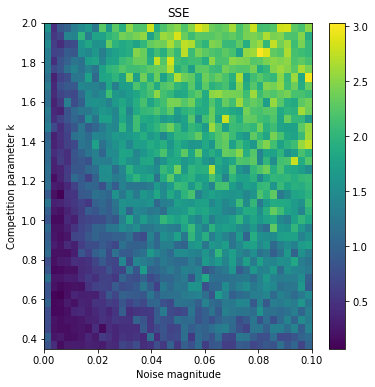
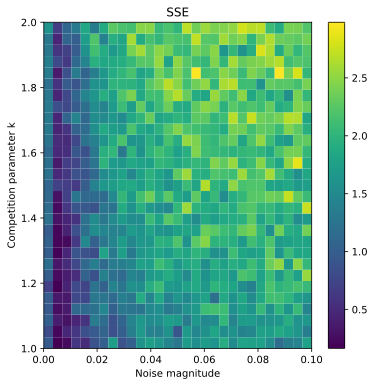
Updating things prepping for publication. Getting closer, but scripts will definitely need to be cleaned up a lot before this goes public.

diff --git a/PsPartPaperModel/SensitivityAnalyses.py b/PsPartPaperModel/SensitivityAnalyses.py
@@ -10,6 +10,7 @@ Created on Tue Jul 25 10:54:12 2017
 import numpy as np
 import matplotlib.pyplot as plt
 
+
 def dyn(k0, adj0, noise0):
     nlinks = 6
 
@@ -25,22 +26,22 @@ def dyn(k0, adj0, noise0):
     all_sents = [box_of_N2_pp, group_of_N2_pp, lot_of_N2_pp, many_N2_pp, box_of_N2_no, group_of_N2_no, lot_of_N2_no, many_N2_no]
     all_sents = np.exp(-np.array(all_sents))
 
-    ## Monte Carlo
+    # Monte Carlo
     tau = 0.01
     ntsteps = 10000
     noisemag = noise0
     nreps = 50
     k = k0
     W = np.array([[1, k, 0, k, 0, k],
-              [k, 1, k, 0, k, 0],
-              [0, k, 1, k, 0, k],
-              [k, 0, k, 1, k, 0],
-              [0, k, 0, k, 1, k],
-              [k, 0, k, 0, k, 1]])
-    
+                  [k, 1, k, 0, k, 0],
+                  [0, k, 1, k, 0, k],
+                  [k, 0, k, 1, k, 0],
+                  [0, k, 0, k, 1, k],
+                  [k, 0, k, 0, k, 1]])
+
     data = np.zeros((len(all_sents), 3))
     for sent in range(all_sents.shape[0]):
-        ipt = all_sents[sent,]
+        ipt = all_sents[sent, ]
 #        print('\tStarting sentence {}'.format(sent))
     
         for rep in range(nreps):
@@ -52,26 +53,26 @@ def dyn(k0, adj0, noise0):
                 x0[0] += 0.1
 #               x0[0] += 0.01
             xhist = np.zeros((ntsteps, nlinks))
-            xhist[0,] = x0
+            xhist[0, ] = x0
             noise = np.sqrt(tau*noisemag) * np.random.normal(0, 1, xhist.shape)
-            
+
             t = 0
             while t < ntsteps-1:
                 t += 1
-                xhist[t,:] = np.clip(xhist[t-1,] + tau * (ipt * xhist[t-1,] 
-                * (1 - W @ xhist[t-1,])) + noise[t-1,:], -0.01, 1.01)
+                xhist[t, :] = np.clip(xhist[t-1, ] + tau * (ipt * xhist[t-1, ]
+                * (1 - W @ xhist[t-1, ])) + noise[t-1, :], -0.01, 1.01)
 
                 if sent < 3:
                     if t == 400:
-                        xhist[t,1] += adj0
-                        xhist[t,2] += adj0
+                        xhist[t, 1] += adj0
+                        xhist[t, 2] += adj0
                     if t == 800:
-                        xhist[t,3:] += adj0
+                        xhist[t, 3:] += adj0
                     if t >= 1200:
-                        if xhist[t,0] > 0.5 and xhist[t,-1] < 0.5:
+                        if xhist[t, 0] > 0.5 and xhist[t, -1] < 0.5:
                             data[sent, 0] += 1
                             break
-                        elif xhist[t,0] < 0.5 and xhist[t,-1] > 0.5:
+                        elif xhist[t, 0] < 0.5 and xhist[t, -1] > 0.5:
                             data[sent, 1] += 1
                             break
                         elif (t+1) == ntsteps:
@@ -81,24 +82,24 @@ def dyn(k0, adj0, noise0):
                     xhist[t, 0:3] = 0
                     xhist[t, 4] = 0
                     if t == 400:
-                        xhist[t,5] += adj0
+                        xhist[t, 5] += adj0
                     if t >= 800:
-                        if xhist[t,0] > 0.5 and xhist[t,-1] < 0.5:
+                        if xhist[t, 0] > 0.5 and xhist[t, -1] < 0.5:
                             data[sent, 0] += 1
                             break
-                        elif xhist[t,0] < 0.5 and xhist[t,-1] > 0.5:
+                        elif xhist[t, 0] < 0.5 and xhist[t, -1] > 0.5:
                             data[sent, 1] += 1
                             break
                         elif (t+1) == ntsteps:
                             data[sent, 2] += 1
                             break
                 elif sent > 3 and sent < 7:
-                # Assuming the elided material all comes in at once
+                    # Assuming the elided material all comes in at once
                     if t > 400:
-                        if xhist[t,0] > 0.5 and xhist[t,-1] < 0.5:
+                        if xhist[t, 0] > 0.5 and xhist[t, -1] < 0.5:
                             data[sent, 0] += 1
                             break
-                        elif xhist[t,0] < 0.5 and xhist[t,-1] > 0.5:
+                        elif xhist[t, 0] < 0.5 and xhist[t, -1] > 0.5:
                             data[sent, 1] += 1
                             break
                         elif (t+1) == ntsteps:
@@ -106,12 +107,12 @@ def dyn(k0, adj0, noise0):
                             break
                 else:
                     xhist[t, 0:3] = 0
-                    xhist[t, 4] = 0            
+                    xhist[t, 4] = 0
                     if t > 400:
-                        if xhist[t,0] > 0.5 and xhist[t,-1] < 0.5:
+                        if xhist[t, 0] > 0.5 and xhist[t, -1] < 0.5:
                             data[sent, 0] += 1
                             break
-                        elif xhist[t,0] < 0.5 and xhist[t,-1] > 0.5:
+                        elif xhist[t, 0] < 0.5 and xhist[t, -1] > 0.5:
                             data[sent, 1] += 1
                             break
                         elif (t+1) == ntsteps:
@@ -127,7 +128,7 @@ human_data = np.array([[137, 97, 0],
                        [189, 46, 0],
                        [99, 134, 0],
                        [27, 206, 0]])
-human_data = human_data / human_data.sum(axis=1)[:,None]
+human_data = human_data / human_data.sum(axis=1)[:, None]
 #for i in range(2):
 #    for j in range(4):
 #        human_data[i,j,:] = human_data[i,j,:] / human_data[i,j,:].sum()
@@ -135,8 +136,6 @@ human_data = human_data / human_data.sum(axis=1)[:,None]
 def sse(model_data):
     return np.sum((model_data - human_data)**2)
 
-#def attr(model_data):
-#    return model_data[1, :, 1] - model_data[0, :, 1]
 
 def agr_attr(model_data):
     """Returns the average agr. attr. effect for Cont. through Meas."""
@@ -144,8 +143,9 @@ def agr_attr(model_data):
 
 # Doing sensitivity
 #noise_vec = np.array([0.1, 0.05, 0.01, 0.005, 0.001, 0.0005, 0.0001])
-noise_vec = np.linspace(0.0001, 0.1, 40)
-k_vec = np.linspace(0.35, 2., 40)
+noise_vec = np.linspace(0.0001, 0.1, 30)
+#k_vec = np.linspace(0.35, 2., 40)
+k_vec = np.linspace(1.0, 2, 30)
 #adj_vec = np.linspace(0.0, 1.0, 100)
 adj = 0.1 # 
 #errors = np.zeros(len(adj_vec))
@@ -155,10 +155,11 @@ attr_eff = np.zeros((len(noise_vec), len(k_vec)))
 #for i in range(len(adj_vec)):
 for i in range(len(noise_vec)):
     for j in range(len(k_vec)):
-        if j % 10 == 0: print('Noise: {}\tk: {}'.format(noise_vec[i], k_vec[j]))
+        if j % 10 == 0:
+            print('Noise: {}\tk: {}'.format(noise_vec[i], k_vec[j]))
         distr = dyn(k0=k_vec[j], adj0=adj, noise0=noise_vec[i])
-        errors[i,j] = sse(distr)
-        attr_eff[i,j] = agr_attr(distr)
+        errors[i, j] = sse(distr)
+        attr_eff[i, j] = agr_attr(distr)
 
 plt.figure(figsize=(6, 6))
 plt.pcolor(noise_vec, k_vec, errors.T)

diff --git a/PsPartPaperModel/MonteCarlo.py b/PsPartPaperModel/MonteCarlo.py
@@ -73,8 +73,8 @@ all_sents = np.exp(-np.array(all_sents))
 # Interaction matrix: specifies which links enter into WTA competitions. The
 # parameter k determines the relative strength of inhibition from other links
 # to a link's self-inhibition
-k = 0.5 # gets even better fit. Need to look at individual runs, though...
-#k = 1.01
+#k = 0.5 # gets even better fit. Need to look at individual runs, though...
+k = 1.3 # for publication
 # and also do a stability analysis to see if things still look the way they should
 #k = 1.1 # works
 W = np.array([[1, k, 0, k, 0, k],
@@ -87,7 +87,8 @@ W = np.array([[1, k, 0, k, 0, k],
 ## Monte Carlo
 tau = 0.01
 ntsteps = 10000
-noisemag = 0.001 # works!
+noisemag = 0.002 # works!; 
+#noisemag = 0.0035
 #nreps = 2000
 nreps = 100
 adj = 0.1
